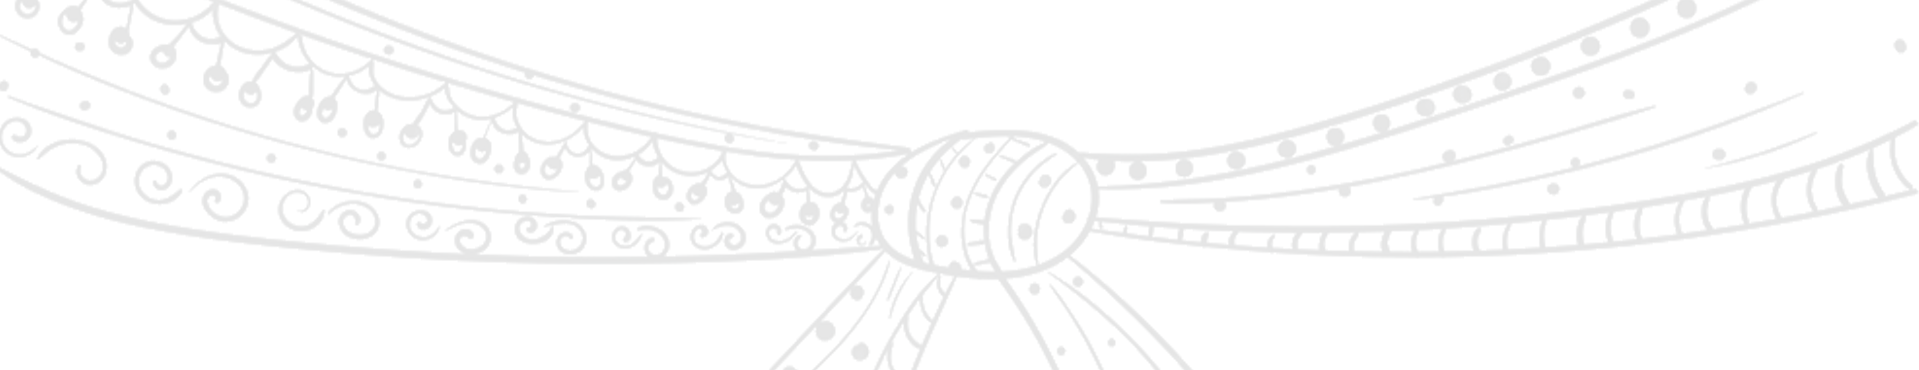
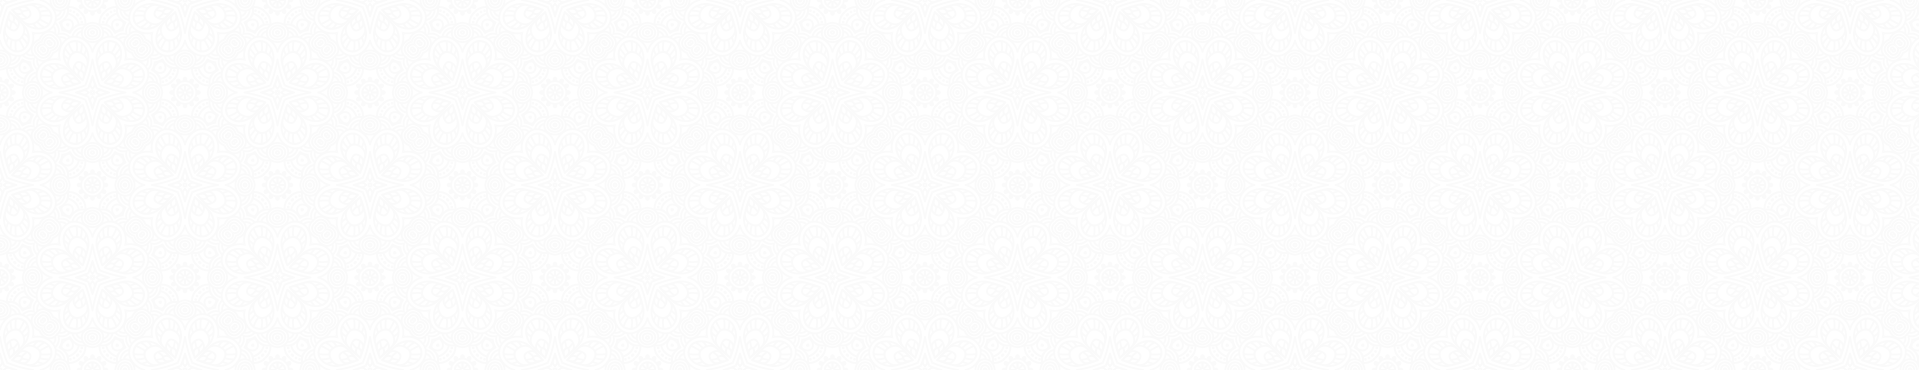
updated bg

diff --git a/assets/css/custom.css b/assets/css/custom.css
@@ -183,7 +183,7 @@ main{
 
 /*  Sub Header Section */
 .breadcrumb__height {
-    max-height: 300px;
+    max-height: 200px;
 }
 
 
@@ -726,7 +726,7 @@ main{
     background-position: center;
 }
 .rr-cta-area {
-    background-image: url(../img/bg-2.png) !important;
+    background-image: url(../img/cta/cta-bg-new.png) !important;
     background-size: cover;
     object-fit: fill;
     background-position: center;

diff --git a/about.html b/about.html
@@ -493,7 +493,7 @@
    <footer>
       <div class="rr-footer-2-main p-relative fix">
          <!-- footer area start -->
-         <div class="rr-footer-2-area pt-85 p-relative fix">
+         <div class="rr-footer-2-area pt-45 p-relative fix">
             <div class="container">
                <div class="rr-footer-2-border">
                   <div class="row gx-30">

diff --git a/contact.html b/contact.html
@@ -321,7 +321,7 @@
    <footer>
       <div class="rr-footer-2-main p-relative fix">
          <!-- footer area start -->
-         <div class="rr-footer-2-area pt-85 p-relative fix">
+         <div class="rr-footer-2-area pt-45 p-relative fix">
             <div class="container">
                <div class="rr-footer-2-border">
                   <div class="row gx-30">

diff --git a/gallery.html b/gallery.html
@@ -464,7 +464,7 @@
    <footer>
       <div class="rr-footer-2-main p-relative fix">
          <!-- footer area start -->
-         <div class="rr-footer-2-area pt-85 p-relative fix">
+         <div class="rr-footer-2-area pt-45 p-relative fix">
             <div class="container">
                <div class="rr-footer-2-border">
                   <div class="row gx-30">

diff --git a/index.html b/index.html
@@ -790,7 +790,7 @@
    <footer>
       <div class="rr-footer-2-main p-relative fix">
          <!-- footer area start -->
-         <div class="rr-footer-2-area pt-85 p-relative fix">
+         <div class="rr-footer-2-area pt-45 p-relative fix">
             <div class="container">
                <div class="rr-footer-2-border">
                   <div class="row gx-30">

diff --git a/services.html b/services.html
@@ -386,7 +386,7 @@
    <footer>
       <div class="rr-footer-2-main p-relative fix">
          <!-- footer area start -->
-         <div class="rr-footer-2-area pt-85 p-relative fix">
+         <div class="rr-footer-2-area pt-45 p-relative fix">
             <div class="container">
                <div class="rr-footer-2-border">
                   <div class="row gx-30">

diff --git a/venues.html b/venues.html
@@ -264,7 +264,7 @@
    <footer>
       <div class="rr-footer-2-main p-relative fix">
          <!-- footer area start -->
-         <div class="rr-footer-2-area pt-85 p-relative fix">
+         <div class="rr-footer-2-area pt-45 p-relative fix">
             <div class="container">
                <div class="rr-footer-2-border">
                   <div class="row gx-30">
